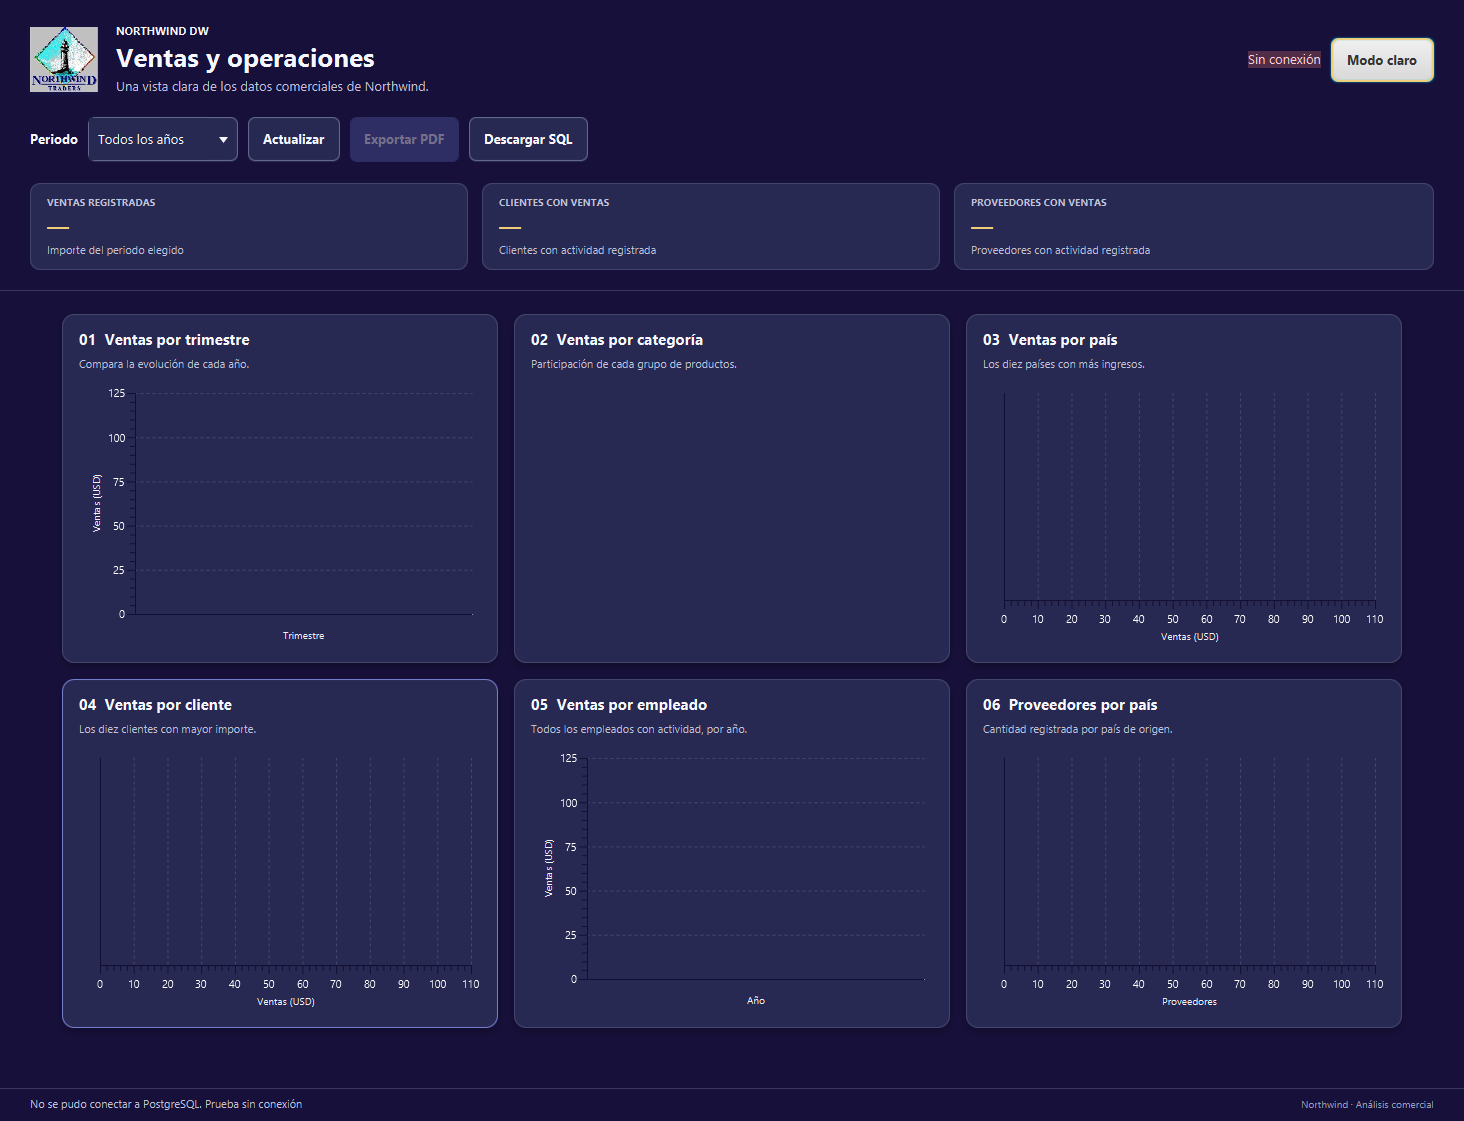
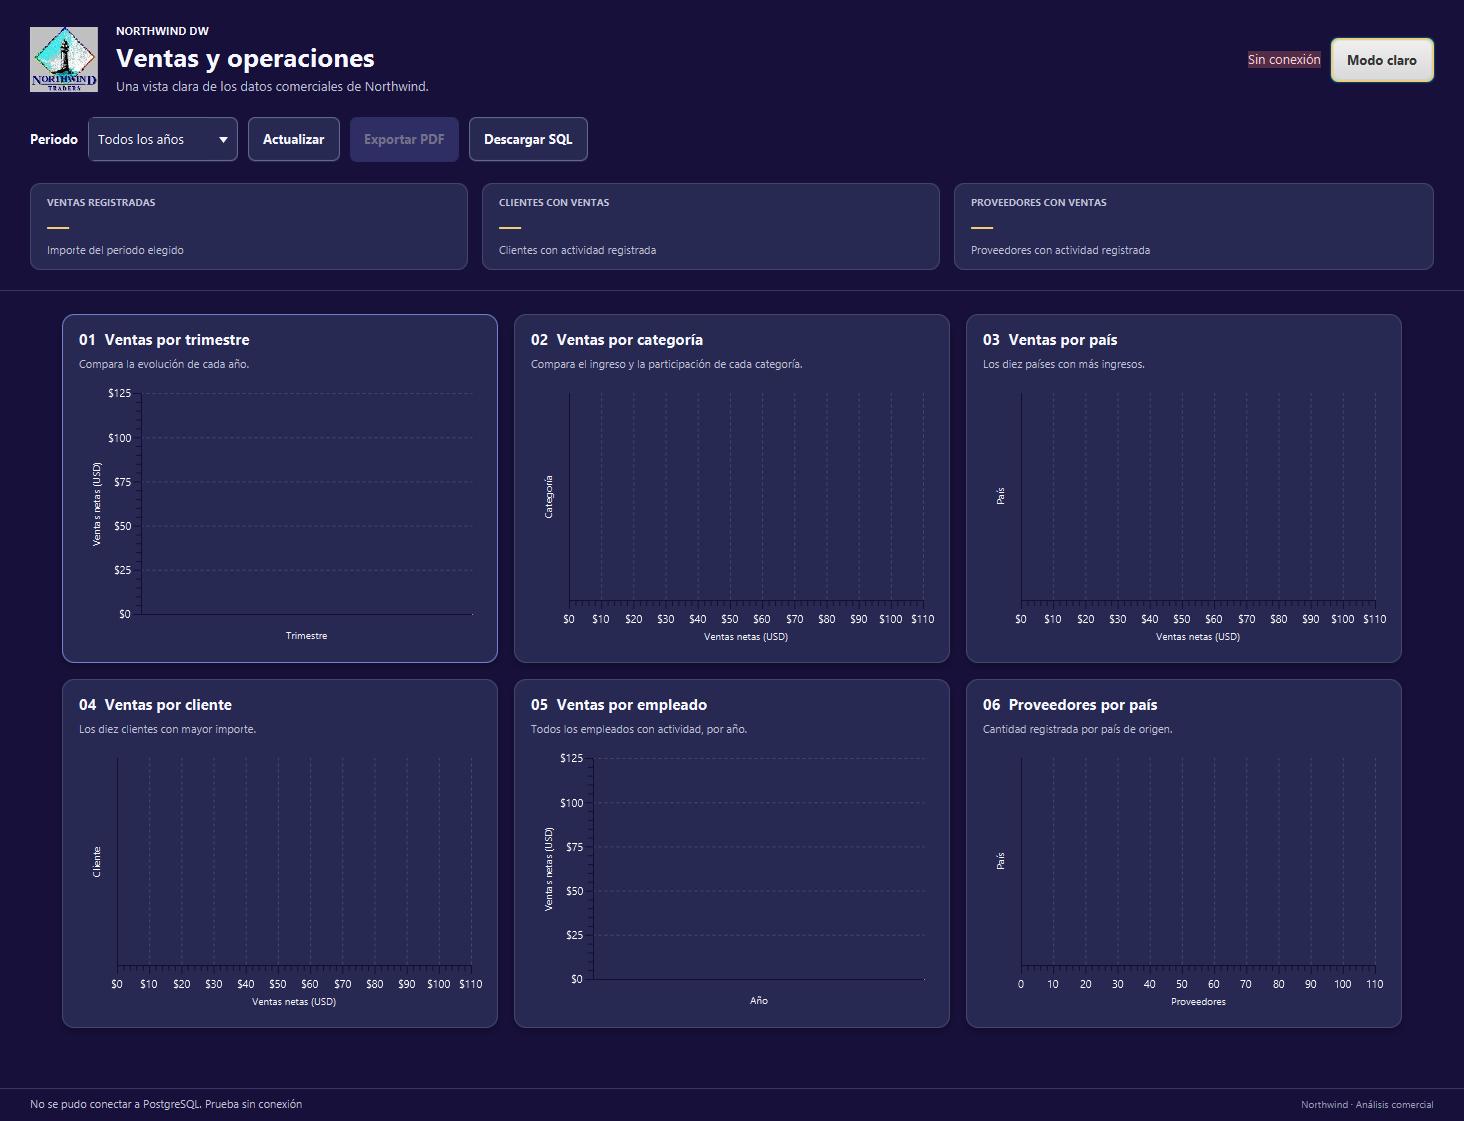
docs: prepare Northwind DW v2.0.0

diff --git a/src/test/java/com/northwinddw/ui/DashboardScreenshotTest.java b/src/test/java/com/northwinddw/ui/DashboardScreenshotTest.java
@@ -1,6 +1,9 @@
 package com.northwinddw.ui;
 
 import com.northwinddw.Main;
+import com.northwinddw.config.DatabaseConfig;
+import com.northwinddw.data.AnalyticsRepository;
+import com.northwinddw.data.ConnectionFactory;
 import com.northwinddw.data.DashboardDataSource;
 import com.northwinddw.service.DashboardExporter;
 import com.northwinddw.model.DashboardData;
@@ -40,9 +43,24 @@ import java.util.UUID;
 import java.util.prefs.Preferences;
 
 import static org.junit.jupiter.api.Assertions.assertTrue;
+import static org.junit.jupiter.api.Assertions.assertInstanceOf;
+import static org.junit.jupiter.api.Assertions.assertThrows;
 import static org.junit.jupiter.api.Assumptions.assumeTrue;
 
 class DashboardScreenshotTest {
+    @Test
+    void selectsFixtureOrDatabaseSourceExplicitly() throws Exception {
+        DashboardData fixture = sampleData();
+        DashboardDataSource fixtureSource = screenshotDataSource("fixture", fixture, null);
+        assertTrue(fixtureSource.loadDashboard(null).summary().totalRevenue()
+                .compareTo(fixture.summary().totalRevenue()) == 0);
+
+        DatabaseConfig config = new DatabaseConfig("127.0.0.1", 5432, "northwind_pentaho", "postgres", "test-only");
+        assertInstanceOf(AnalyticsRepository.class, screenshotDataSource("database", fixture, config));
+        assertThrows(IllegalArgumentException.class,
+                () -> screenshotDataSource("unknown", fixture, config));
+    }
+
     @Test
     void capturesLightAndDarkThemesAndConnectionError() throws Exception {
         String screenshotDirectory = System.getenv("NORTHWIND_SCREENSHOT_DIR");
@@ -55,7 +73,13 @@ class DashboardScreenshotTest {
         CountDownLatch complete = new CountDownLatch(1);
         AtomicReference<Throwable> failure = new AtomicReference<>();
         DashboardData sample = sampleData();
-        Platform.startup(() -> openWindow(year -> sample, null, DashboardTheme.LIGHT,
+        String dataSourceMode = System.getenv("NORTHWIND_SCREENSHOT_DATA_SOURCE");
+        if (dataSourceMode == null || dataSourceMode.isBlank()) {
+            dataSourceMode = "fixture";
+        }
+        DashboardDataSource source = screenshotDataSource(dataSourceMode,
+                sample, "database".equals(dataSourceMode) ? DatabaseConfig.load() : null);
+        Platform.startup(() -> openWindow(source, null, DashboardTheme.LIGHT,
                 outputDirectory.resolve("dashboard.png"), outputDirectory.resolve("dashboard-dark.png"),
                 outputDirectory.resolve("dashboard-detail.png"), outputDirectory.resolve("dashboard-detail-dark.png"), () ->
                 openWindow(null, "Prueba sin conexión", DashboardTheme.DARK,
@@ -78,6 +102,20 @@ class DashboardScreenshotTest {
             preferences.removeNode();
             Preferences.userRoot().flush();
         }
+    }
+
+    private static DashboardDataSource screenshotDataSource(String mode, DashboardData fixture,
+                                                            DatabaseConfig databaseConfig) {
+        return switch (mode) {
+            case "fixture" -> year -> fixture;
+            case "database" -> {
+                if (databaseConfig == null) {
+                    throw new IllegalArgumentException("Database screenshot mode requires database settings.");
+                }
+                yield new AnalyticsRepository(ConnectionFactory.from(databaseConfig));
+            }
+            default -> throw new IllegalArgumentException("Use 'fixture' or 'database' screenshot data mode.");
+        };
     }
 
     private static void openWindow(DashboardDataSource source, String configurationError,

diff --git a/src/test/java/com/northwinddw/data/AnalyticsRepositoryIntegrationTest.java b/src/test/java/com/northwinddw/data/AnalyticsRepositoryIntegrationTest.java
@@ -67,11 +67,14 @@ class AnalyticsRepositoryIntegrationTest {
             assertTrue(connection.isReadOnly());
             try (PreparedStatement statement = connection.prepareStatement(
                     "SELECT current_setting('transaction_read_only'), "
-                            + "has_table_privilege(current_user, 'public.employees', 'UPDATE')");
+                            + "has_table_privilege(current_user, 'public.employees', 'UPDATE'), "
+                            + "(SELECT rolsuper FROM pg_catalog.pg_roles WHERE rolname = current_user)");
                  ResultSet rows = statement.executeQuery()) {
                 assertTrue(rows.next());
                 assertEquals("on", rows.getString(1));
-                assertFalse(rows.getBoolean(2));
+                if (!rows.getBoolean(3)) {
+                    assertFalse(rows.getBoolean(2), "The configured application role should not have UPDATE rights.");
+                }
             }
             assertThrows(SQLException.class, () -> {
                 try (PreparedStatement statement = connection.prepareStatement(

diff --git a/docs/superpowers/plans/2026-10-26-analytics-chart-redesign.md b/docs/superpowers/plans/2026-10-26-analytics-chart-redesign.md
@@ -96,21 +96,21 @@
 - `NORTHWIND_SCREENSHOT_DATA_SOURCE=database` makes the screenshot test load `DatabaseConfig` and `AnalyticsRepository`; the default remains fixture data for automated tests.
 - The screenshot test verifies a connected database before saving captures and never prints connection credentials.
 
-- [ ] **Step 1: Add failing screenshot-test coverage** for the database-backed source selector and connected-state requirement while preserving the deterministic fixture path.
-- [ ] **Step 2: Implement the real-data screenshot mode** using the current `.env` and the existing read-only JDBC settings.
-- [ ] **Step 3: Generate and inspect all four README captures** with `NORTHWIND_DB_USER=postgres`, `NORTHWIND_SCREENSHOT_DATA_SOURCE=database`, and the local database; confirm real amounts, labels, axes, both themes, and detail views are legible.
-- [ ] **Step 4: Update README and changelog** with the actual dashboard values/captures and version 2.0.0 release notes; update Maven project version to `2.0.0`.
+- [x] **Step 1: Add failing screenshot-test coverage** for the database-backed source selector and connected-state requirement while preserving the deterministic fixture path.
+- [x] **Step 2: Implement the real-data screenshot mode** using the current `.env` and the existing read-only JDBC settings.
+- [x] **Step 3: Generate and inspect all four README captures** with `NORTHWIND_DB_USER=postgres`, `NORTHWIND_SCREENSHOT_DATA_SOURCE=database`, and the local database; confirm real amounts, labels, axes, both themes, and detail views are legible.
+- [x] **Step 4: Update README and changelog** with the actual dashboard values/captures and version 2.0.0 release notes; update Maven project version to `2.0.0`.
 - [ ] **Step 5: Run** `.\scripts\verify.ps1 -WithDatabaseIntegration`, the database-backed screenshot test, and `mvn javafx:run` with PostgreSQL to confirm dynamic startup.
-- [ ] **Step 6: Verify** `.env` remains ignored and absent from the staged file list, branch is `main`, and no database writes occurred.
-- [ ] **Step 7: Commit** as `docs: prepare Northwind DW v2.0.0`.
+- [x] **Step 6: Verify** `.env` remains ignored and absent from the staged file list, branch is `main`, and no database writes occurred.
+- [x] **Step 7: Commit** as `docs: prepare Northwind DW v2.0.0`.
 
 ### Task 5: Review and publish v2.0.0
 
 **Files:**
 - Release: Git tag `v2.0.0` and GitHub release for `Fabianrodas/northwind-dw`.
 
-- [ ] **Step 1: Run final verification** and inspect `git diff --check`, release version, staged files, and `.env` exclusion.
-- [ ] **Step 2: Dispatch a fresh read-only code reviewer** on the completed chart redesign range; fix Critical/Important findings and rerun verification.
+- [x] **Step 1: Run final verification** and inspect `git diff --check`, release version, staged files, and `.env` exclusion.
+- [x] **Step 2: Review the completed chart redesign and release changes; resolve any important findings and rerun verification.**
 - [ ] **Step 3: Confirm remote `main` can receive the committed release history** without overwriting newer remote work.
 - [ ] **Step 4: Publish** `v2.0.0` with concise release notes, including the improved six chart views and real-data README captures.
 - [ ] **Step 5: Verify** the release tag/URL and final local/remote status.

diff --git a/README.md b/README.md
@@ -14,17 +14,17 @@ Northwind DW reúne los datos comerciales de ejemplo de Northwind en una ventana
 
 Al abrirse, la aplicación usa el tema oscuro, con la paleta del proyecto original. Puedes cambiar a modo claro desde la esquina superior derecha; tu elección se conserva para la próxima vez. Las tarjetas se acomodan en tres, dos o una columna según el ancho de la ventana.
 
-Las siguientes imágenes muestran ambos temas con valores de ejemplo:
+Las siguientes capturas se generaron desde la base Northwind de PostgreSQL instalada en el equipo. En esa base, el tablero resume **$1,265,792.94 en ventas**, **89 clientes con compras** y **29 proveedores con ventas** entre 1996 y 1998. Cada gráfica compara una medida con su categoría o periodo: ventas trimestrales, participación por categoría, países y clientes con más ingresos, actividad anual de empleados y proveedores por país.
 
-![Tablero de ventas en modo oscuro](docs/screenshots/dashboard-dark.png)
+![Tablero con datos reales en modo oscuro](docs/screenshots/dashboard-dark.png)
 
-![Tablero de ventas en modo claro](docs/screenshots/dashboard.png)
+![Tablero con datos reales en modo claro](docs/screenshots/dashboard.png)
 
 Al elegir una tarjeta, puedes ver ese análisis a mayor tamaño. El detalle conserva los filtros y el tema, y permite regresar a la cuadrícula:
 
-![Detalle de un gráfico en modo claro](docs/screenshots/dashboard-detail.png)
+![Detalle de un gráfico con datos reales en modo claro](docs/screenshots/dashboard-detail.png)
 
-![Detalle de un gráfico en modo oscuro](docs/screenshots/dashboard-detail-dark.png)
+![Detalle de un gráfico con datos reales en modo oscuro](docs/screenshots/dashboard-detail-dark.png)
 
 Si la aplicación no encuentra PostgreSQL, informa qué revisar y mantiene la ventana abierta:
 

diff --git a/CHANGELOG.md b/CHANGELOG.md
@@ -1,0 +1,13 @@
+# Historial de cambios
+
+Los cambios destacados de cada versión se anotan aquí.
+
+## [2.0.0] - 2026-10-26
+
+### Mejoras
+
+- Se reorganizaron las seis gráficas para que sus tipos y ejes correspondan a los datos que comparan.
+- Se añadieron etiquetas de valores, nombres claros, unidades, colores distinguibles y formatos de moneda compactos.
+- El análisis de empleados cambia entre comparación por año y evolución a lo largo del tiempo según el periodo elegido.
+- Las capturas del README muestran el tablero y el detalle con datos reales de PostgreSQL en modo claro y oscuro.
+- Se actualizó la versión del proyecto y se mantuvieron las exportaciones PDF y QR.
